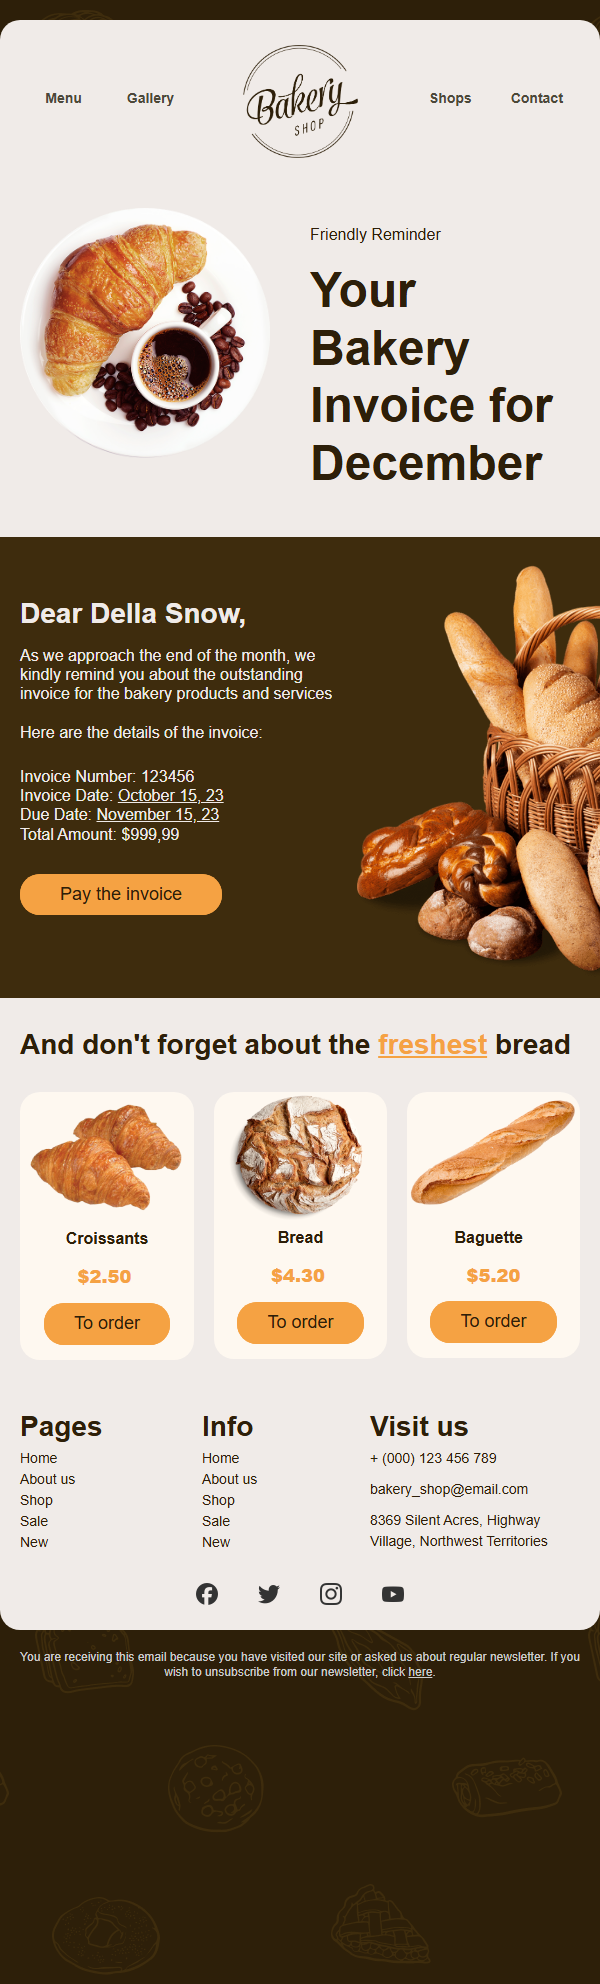
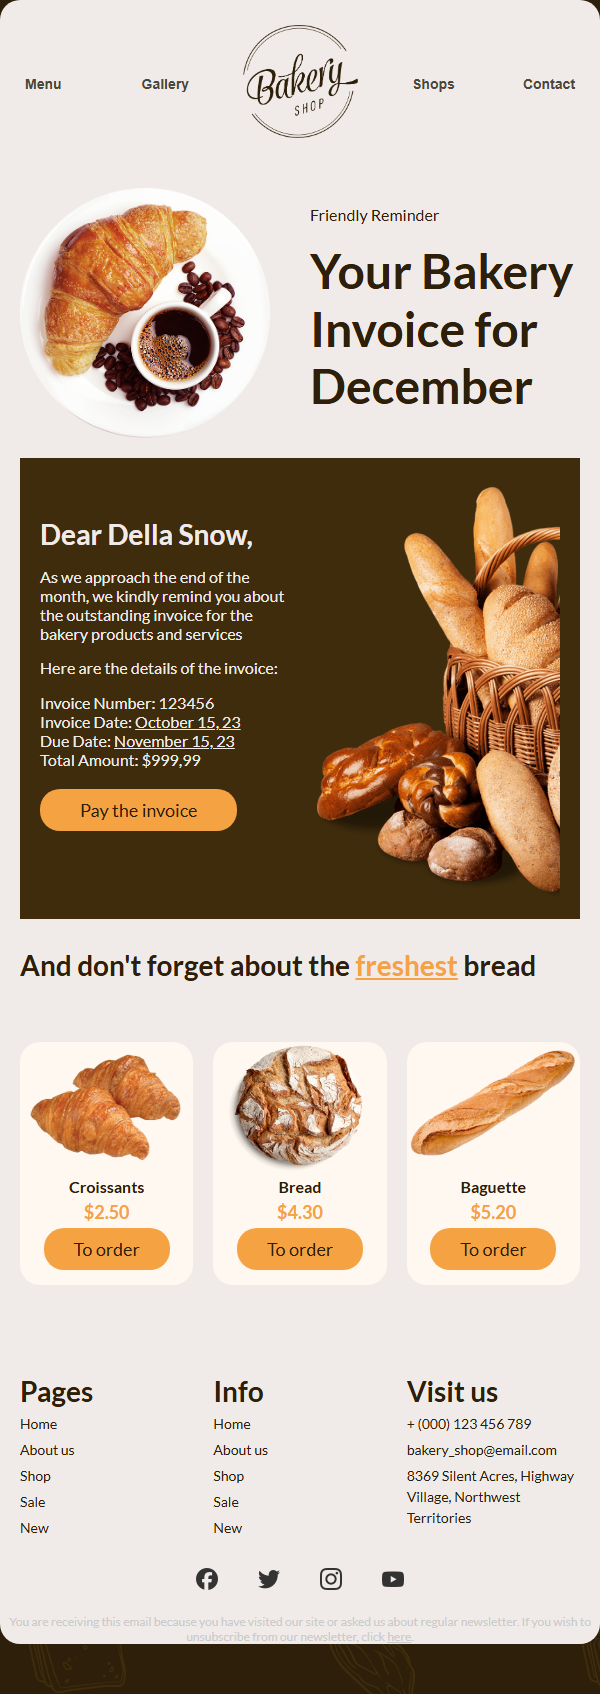
bakery-template-updated

diff --git a/bakery-template/bakery-template.html b/bakery-template/bakery-template.html
@@ -11,7 +11,7 @@
     body {
       margin: 0;
       padding: 0;
-      background: #2d1f09 url('https://tlr.stripocdn.email/content/guids/CABINET_de370ea5ed3a3389eae6754b046afa16/images/28801621409917524.png') repeat left top;
+      background: #2d1f09 url('https://raw.githubusercontent.com/isend-ai/EmailTemplates/refs/heads/main/bakery-template/assets/28801621409917524.png') repeat left top;
       font-family: 'Lato', Arial, sans-serif;
       min-width: 100vw;
       min-height: 100vh;
@@ -379,8 +379,8 @@
       <div class="header">
         <div class="nav">
           <div class="nav-row">
-            <a href="https://viewstripo.email">Menu</a>
-            <a href="https://viewstripo.email">Gallery</a>
+            <a href="https://www.isend.ai/">Menu</a>
+            <a href="https://www.isend.ai/">Gallery</a>
           </div>
         </div>
         <div class="logo">
@@ -388,8 +388,8 @@
         </div>
         <div class="nav-right">
           <div class="nav-row">
-            <a href="https://viewstripo.email">Shops</a>
-            <a href="https://viewstripo.email">Contact</a>
+            <a href="https://www.isend.ai/">Shops</a>
+            <a href="https://www.isend.ai/">Contact</a>
           </div>
         </div>
       </div>
@@ -408,34 +408,34 @@
             <h2>Dear Della Snow,</h2>
             <p>As we approach the end of the month, we kindly remind you about the outstanding invoice for the bakery products and services</p>
             <p>Here are the details of the invoice:</p>
-            <p>Invoice Number: 123456<br>Invoice Date: <a href="https://viewstripo.email" style="color:#f0ebe8;text-decoration:underline;">October 15, 23</a><br>Due Date: <a href="https://viewstripo.email" style="color:#f0ebe8;text-decoration:underline;">November 15, 23</a><br>Total Amount: $999,99</p>
-            <a href="https://viewstripo.email" class="pay-btn">Pay the invoice</a>
+            <p>Invoice Number: 123456<br>Invoice Date: <a href="https://www.isend.ai/" style="color:#f0ebe8;text-decoration:underline;">October 15, 23</a><br>Due Date: <a href="https://www.isend.ai/" style="color:#f0ebe8;text-decoration:underline;">November 15, 23</a><br>Total Amount: $999,99</p>
+            <a href="https://www.isend.ai/" class="pay-btn">Pay the invoice</a>
           </div>
           <div class="right">
             <a href="#"><img src="https://raw.githubusercontent.com/isend-ai/EmailTemplates/refs/heads/main/bakery-template/assets/62551621410737747.png" alt="Bread"></a>
           </div>
         </div>
         <div class="fresh-section">
-          <h2>And don't forget about the <a href="https://viewstripo.email">freshest</a>&nbsp;bread</h2>
+          <h2>And don't forget about the <a href="https://www.isend.ai/">freshest</a>&nbsp;bread</h2>
         </div>
         <div class="products">
           <div class="product">
             <a href="#"><img src="https://raw.githubusercontent.com/isend-ai/EmailTemplates/refs/heads/main/bakery-template/assets/69241621410139587.png" alt="Croissants"></a>
             <div class="p_name">Croissants</div>
             <div class="p_price">$2.50</div>
-            <a href="https://viewstripo.email" class="order-btn">To order</a>
+            <a href="https://www.isend.ai/" class="order-btn">To order</a>
           </div>
           <div class="product">
             <a href="#"><img src="https://raw.githubusercontent.com/isend-ai/EmailTemplates/refs/heads/main/bakery-template/assets/83191621409589866.png" alt="Bread"></a>
             <div class="p_name">Bread</div>
             <div class="p_price">$4.30</div>
-            <a href="https://viewstripo.email" class="order-btn">To order</a>
+            <a href="https://www.isend.ai/" class="order-btn">To order</a>
           </div>
           <div class="product">
             <a href="#"><img src="https://raw.githubusercontent.com/isend-ai/EmailTemplates/refs/heads/main/bakery-template/assets/72941621410139467.png" alt="Baguette"></a>
             <div class="p_name">Baguette</div>
             <div class="p_price">$5.20</div>
-            <a href="https://viewstripo.email" class="order-btn">To order</a>
+            <a href="https://www.isend.ai/" class="order-btn">To order</a>
           </div>
         </div>
       </div>
@@ -443,35 +443,35 @@
         <div class="footer-cols">
           <div class="footer-col">
             <h3>Pages</h3>
-            <a href="https://viewstripo.email">Home</a>
-            <a href="https://viewstripo.email">About us</a>
-            <a href="https://viewstripo.email">Shop</a>
-            <a href="https://viewstripo.email">Sale</a>
-            <a href="https://viewstripo.email">New</a>
+            <a href="https://www.isend.ai/">Home</a>
+            <a href="https://www.isend.ai/">About us</a>
+            <a href="https://www.isend.ai/">Shop</a>
+            <a href="https://www.isend.ai/">Sale</a>
+            <a href="https://www.isend.ai/">New</a>
           </div>
           <div class="footer-col">
             <h3>Info</h3>
-            <a href="https://viewstripo.email">Home</a>
-            <a href="https://viewstripo.email">About us</a>
-            <a href="https://viewstripo.email">Shop</a>
-            <a href="https://viewstripo.email">Sale</a>
-            <a href="https://viewstripo.email">New</a>
+            <a href="https://www.isend.ai/">Home</a>
+            <a href="https://www.isend.ai/">About us</a>
+            <a href="https://www.isend.ai/">Shop</a>
+            <a href="https://www.isend.ai/">Sale</a>
+            <a href="https://www.isend.ai/">New</a>
           </div>
           <div class="footer-col">
             <h3>Visit us</h3>
             <a href="">+ (000)&nbsp;123 456 789</a>
             <a href="mailto:bakery_shop@email.com">bakery_shop@email.com</a>
-            <a href="https://viewstripo.email">8369 Silent Acres, Highway Village, Northwest Territories</a>
+            <a href="https://www.isend.ai/">8369 Silent Acres, Highway Village, Northwest Territories</a>
           </div>
         </div>
         <div class="footer-socials">
           <a href="#"><img src="https://raw.githubusercontent.com/isend-ai/EmailTemplates/refs/heads/main/bakery-template/assets/facebook-logo-black.png" alt="Fb" title="Facebook"></a>
-          <a href="https://viewstripo.email"><img src="https://raw.githubusercontent.com/isend-ai/EmailTemplates/refs/heads/main/bakery-template/assets/twitter-logo-black.png" alt="Tw" title="Twitter"></a>
+          <a href="https://www.isend.ai/"><img src="https://raw.githubusercontent.com/isend-ai/EmailTemplates/refs/heads/main/bakery-template/assets/twitter-logo-black.png" alt="Tw" title="Twitter"></a>
           <a href="#"><img src="https://raw.githubusercontent.com/isend-ai/EmailTemplates/refs/heads/main/bakery-template/assets/instagram-logo-black.png" alt="Inst" title="Instagram"></a>
           <a href="#"><img src="https://raw.githubusercontent.com/isend-ai/EmailTemplates/refs/heads/main/bakery-template/assets/youtube-logo-black.png" alt="Yt" title="Youtube"></a>
         </div>
         <div class="footer-note">
-          You are receiving this email because you have visited our site or asked us about regular newsletter. If you wish to unsubscribe from our newsletter, click <a href="https://viewstripo.email/" style="color:#cccccc;text-decoration:underline;">here</a>.
+          You are receiving this email because you have visited our site or asked us about regular newsletter. If you wish to unsubscribe from our newsletter, click <a href="https://www.isend.ai//" style="color:#cccccc;text-decoration:underline;">here</a>.
         </div>
       </footer>
     </div>

diff --git a/bakery-template/README.md b/bakery-template/README.md
@@ -1,0 +1,7 @@
+# bakery_template
+
+A cheerful and personalized digital voucher template perfect for gifting special birthday surprises and experiences.
+
+<p align="center">
+  <img src="email_full.png" alt="Agriculture_newsletter_template" style="width:100%; max-width:1000px;" />
+</p>
